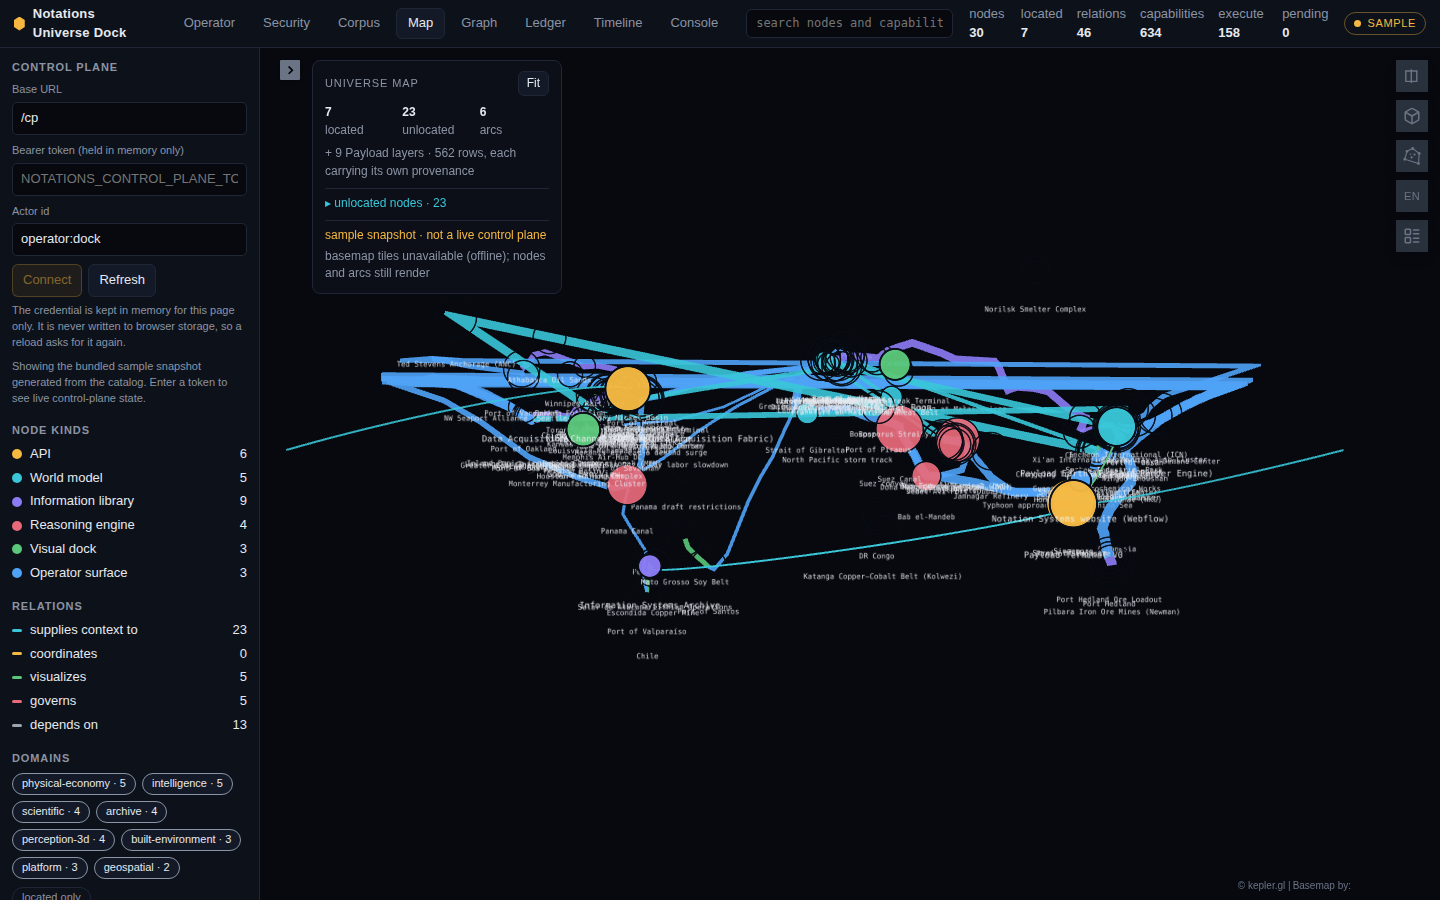
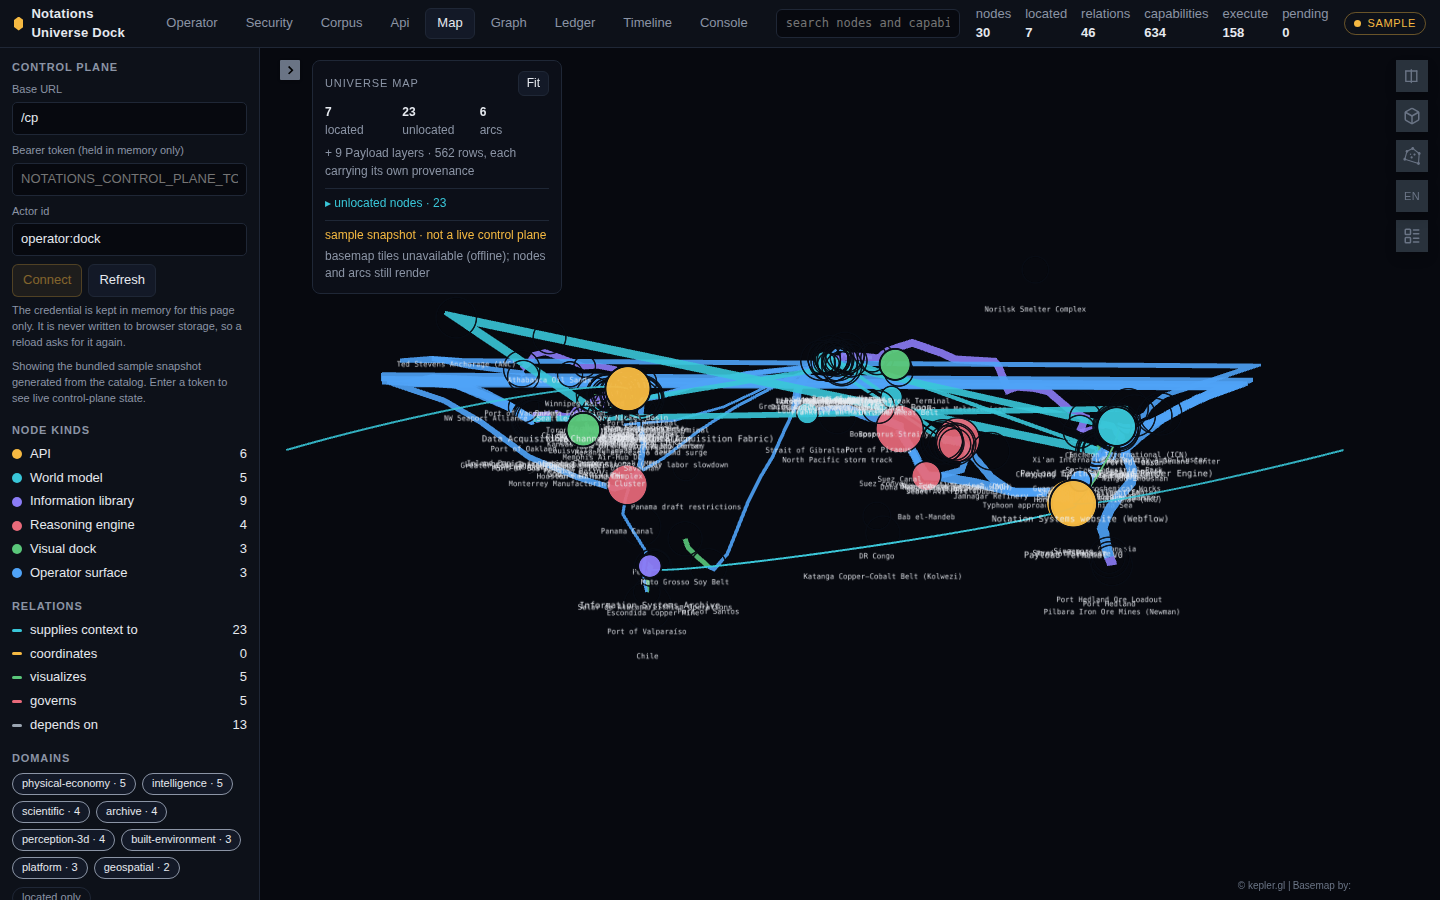
feat(dock): the four planes, and the number that must stay zero
The architecture was checkable and invisible. A ninth lens makes it something
an operator looks at: which systems are served on Tenant Read, Verification,
Governance and Operator; how many of each node's capabilities write; how many
are off every plane; and the count the four planes exist to keep at zero —
writes reachable on a plane anyone may call.

Computed from what actually crossed into the snapshot rather than asserted, so
the lens would show a violation rather than restate a claim. It shows 0.

The rail carries what API-000 produced, under the revision: `proof root ·
hash-linked, signed, anchored`. The chain kind and the signing state are
separate words because an unsigned chain is still hash-linked and still a root,
and reading "verified" across both is the conflation the field exists to
prevent.

`apiStanding()` in the model reads the four derived metadata fields; the
`Referenced` and `OperationalObservation` shapes are typed so a future reader
of a control-plane response has to say which kind it is handling.

control-plane 48/48, ecosystem 57/57, dock 50/50, 30 nodes / 634 capabilities,
0 errors; secret scan clean; all fifteen screenshots regenerated against a live
plane by one command.

Claude-Session: https://claude.ai/code/session_01LNYZbVwCbc7GqwstDUGQRa

Changed region(s): [[0.125, 0.0, 0.875, 0.0622], [0.0, 0.0, 0.0938, 0.0622]]

diff --git a/dock/src/lenses/ApiLens.tsx b/dock/src/lenses/ApiLens.tsx
@@ -1,0 +1,178 @@
+import { useMemo, useState } from 'react';
+import type { LensProps } from './types';
+import {
+  API_PLANE_BLURB,
+  API_PLANE_LABEL,
+  API_PLANE_ORDER,
+  API_PLANE_PUBLIC,
+  apiStanding,
+  type ApiPlane,
+  type SnapshotNode,
+} from '../model/types';
+
+/**
+ * The four planes, and which systems are served on each.
+ *
+ * The other lenses answer what a system holds and whether it can be trusted to hold it.
+ * This answers the third question — who may reach it, and in what shape — from
+ * [docs/API_PLANES.md](../../docs/API_PLANES.md): four roles, four planes, thirteen module
+ * families, and one invariant that every response either carries a proof root or says it
+ * is an observation.
+ *
+ * The number worth looking at is not the plane count. It is **writes on a public plane**,
+ * which must be zero: a capability whose role mutates reaches canonical state through
+ * governance or the operator plane or not at all. The catalog refuses the combination and
+ * `ecosystem/api.mjs` exits non-zero on it; this is where an operator sees that it held.
+ */
+const PLANE_COLOR: Record<ApiPlane, string> = {
+  tenant_read: '#58a6ff',
+  verification: '#3fb950',
+  governance: '#d29922',
+  internal_operator: '#bc8cff',
+};
+
+export function ApiLens({ filtered, selected, onSelect }: LensProps) {
+  const [plane, setPlane] = useState<ApiPlane | null>(null);
+
+  const placed = useMemo(
+    () =>
+      filtered.nodes
+        .map((node) => ({ node, api: apiStanding(node) }))
+        .filter((entry): entry is { node: SnapshotNode; api: NonNullable<ReturnType<typeof apiStanding>> } => entry.api !== null),
+    [filtered.nodes],
+  );
+
+  const onPlane = (id: ApiPlane) => placed.filter((entry) => entry.api.planes.includes(id));
+  const writes = placed.reduce((sum, entry) => sum + entry.api.writes, 0);
+  const operatorOnly = placed.reduce((sum, entry) => sum + entry.api.operatorOnly, 0);
+  const deviations = placed.filter((entry) => entry.api.deviations);
+  // The invariant, computed from what actually crossed rather than asserted: a node that
+  // writes and is served on a public plane would appear here.
+  const publicWriters = placed.filter((entry) => entry.api.writes && entry.api.planes.some((p) => API_PLANE_PUBLIC[p] && !entry.api.planes.some((q) => !API_PLANE_PUBLIC[q])));
+
+  const shown = plane ? onPlane(plane) : placed;
+
+  if (!placed.length) {
+    return (
+      <div className="lens scroll">
+        <p className="empty-note">
+          No node in this snapshot states where it sits in the API architecture. The planes are
+          derived from each capability's module family by <code>ecosystem/api.mjs</code> and seeded as
+          node metadata; a journal written before that existed carries none.
+        </p>
+      </div>
+    );
+  }
+
+  return (
+    <div className="lens scroll">
+      <div className="strip">
+        <div className="kpi">
+          <span>placed nodes</span>
+          <b>
+            {placed.length} / {filtered.nodes.length}
+          </b>
+        </div>
+        <div className="kpi">
+          <span>capabilities that write</span>
+          <b>{writes}</b>
+        </div>
+        <div className="kpi">
+          <span title="Actions a person triggers rather than endpoints anyone calls: key rotation, credential issue, site activation, runtime switches. An agent cannot reach one.">
+            on no plane
+          </span>
+          <b>{operatorOnly}</b>
+        </div>
+        <div className="kpi">
+          <span title="Writes the architecture would not serve, declared rather than hidden or forced into a family that fits.">declared deviations</span>
+          <b style={{ color: deviations.length ? '#d29922' : undefined }}>{deviations.reduce((sum, e) => sum + e.api.deviations, 0)}</b>
+        </div>
+        <div className="kpi">
+          <span title="A capability whose role mutates may not be served on a plane anyone may call. This is the rule the four planes exist for.">
+            public canonical CRUD
+          </span>
+          <b style={{ color: publicWriters.length ? '#f85149' : '#3fb950' }}>{publicWriters.length}</b>
+        </div>
+        <div style={{ marginLeft: 'auto', maxWidth: 460, textAlign: 'right', color: 'var(--muted)', fontSize: 11 }}>
+          Every response this plane returns carries a canonical reference and the proof root it was
+          read at, or says it is an operational observation and states what it does not cover.
+        </div>
+      </div>
+
+      <div className="corpus-roles">
+        <button type="button" className={`tab ${plane === null ? 'active' : ''}`} onClick={() => setPlane(null)}>
+          all planes ({placed.length})
+        </button>
+        {API_PLANE_ORDER.map((id) => {
+          const count = onPlane(id).length;
+          if (!count) return null;
+          return (
+            <button
+              key={id}
+              type="button"
+              className={`tab ${plane === id ? 'active' : ''}`}
+              onClick={() => setPlane(plane === id ? null : id)}
+              title={API_PLANE_BLURB[id]}
+              style={{ borderColor: plane === id ? PLANE_COLOR[id] : undefined }}
+            >
+              {API_PLANE_LABEL[id]} ({count}){API_PLANE_PUBLIC[id] ? '' : ' ·'}
+            </button>
+          );
+        })}
+      </div>
+
+      {plane && (
+        <p className="empty-note" style={{ marginTop: 10, marginBottom: 0 }}>
+          <b style={{ color: PLANE_COLOR[plane] }}>{API_PLANE_LABEL[plane]}</b>
+          {API_PLANE_PUBLIC[plane] ? ' · public' : ' · not public'} — {API_PLANE_BLURB[plane]}
+        </p>
+      )}
+
+      <div className="sec-grid" style={{ marginTop: 12 }}>
+        {shown.map(({ node, api }) => (
+          <button
+            key={node.nodeId}
+            type="button"
+            className={`sec-card ${selected === node.nodeId ? 'active' : ''}`}
+            style={{ borderLeftColor: api.planes.length ? PLANE_COLOR[api.planes[0]!] : 'var(--line)' }}
+            onClick={() => onSelect(selected === node.nodeId ? null : node.nodeId)}
+          >
+            <span className="sec-head">
+              <span className="sec-dot" style={{ background: api.planes.length ? PLANE_COLOR[api.planes[0]!] : 'var(--line)' }} />
+              {node.name}
+            </span>
+            <span className="sec-findings">
+              {api.planes.map((id) => (
+                <span key={id} className="badge" style={{ borderColor: PLANE_COLOR[id], color: PLANE_COLOR[id] }} title={API_PLANE_BLURB[id]}>
+                  {API_PLANE_LABEL[id]}
+                </span>
+              ))}
+              {!api.planes.length && <span className="sec-findings none">on no plane</span>}
+            </span>
+            <span className="sec-meta">
+              <span title="Capabilities whose role mutates. Each passes a governed gate; none is served where anyone may call it.">
+                {api.writes} write{api.writes === 1 ? '' : 's'}
+              </span>
+              {api.operatorOnly > 0 && (
+                <span title="Actions a person triggers, off every plane. No agent surface reaches one.">{api.operatorOnly} operator-only</span>
+              )}
+              {api.deviations > 0 && (
+                <span className="sec-count medium" title="A write the architecture would not serve, named rather than hidden. See the node's capabilities in the catalog for the sentence.">
+                  {api.deviations} deviation{api.deviations === 1 ? '' : 's'}
+                </span>
+              )}
+            </span>
+          </button>
+        ))}
+      </div>
+
+      <p className="empty-note" style={{ marginTop: 14 }}>
+        Four roles, four planes, thirteen module families — <code>docs/API_PLANES.md</code>. A
+        capability declares only which family it belongs to; its role, the planes it may be served
+        on and the shape its response must take all follow from that. The two planes marked
+        <b> not public</b> are where every write lives, because a read API that also writes is what
+        every canonical-CRUD leak starts as.
+      </p>
+    </div>
+  );
+}

diff --git a/dock/src/model/types.ts b/dock/src/model/types.ts
@@ -428,3 +428,59 @@ export const POSTURE_DIMENSION_ORDER: PostureDimension[] = [
   'identity', 'authorization', 'encryption_in_transit', 'encryption_at_rest', 'key_lifecycle',
   'dependency_risk', 'exposure', 'audit_integrity', 'backup', 'incident', 'control_plane_integrity',
 ];
+
+/** The four planes of docs/API_PLANES.md, in the order that document states them. */
+export type ApiPlane = 'tenant_read' | 'verification' | 'governance' | 'internal_operator';
+
+export const API_PLANE_ORDER: ApiPlane[] = ['tenant_read', 'verification', 'governance', 'internal_operator'];
+
+export const API_PLANE_LABEL: Record<ApiPlane, string> = {
+  tenant_read: 'Tenant Read',
+  verification: 'Verification',
+  governance: 'Governance',
+  internal_operator: 'Operator',
+};
+
+export const API_PLANE_BLURB: Record<ApiPlane, string> = {
+  tenant_read: 'Corpus, projection, search, releases, timelines, proof navigation. Tenant-bound, and returns references rather than unrestricted data.',
+  verification: 'Any supported VerificationEnvelope, closure, checks, Warrant Graph. Answers whether something verifies, and against what root.',
+  governance: 'Coverage, source-policy windows, retention, readiness, preflight, replay, challenges. A readiness answer is never an authorization.',
+  internal_operator: 'Signed federation packets and controlled operational actions. Never public canonical CRUD.',
+};
+
+/** Which two planes anyone may call. The rule "never public canonical CRUD" is about these. */
+export const API_PLANE_PUBLIC: Record<ApiPlane, boolean> = {
+  tenant_read: true,
+  verification: true,
+  governance: false,
+  internal_operator: false,
+};
+
+/**
+ * A node's place in the API architecture, from the metadata the seed derives.
+ *
+ * The per-capability family stays in the catalog: the plane is the fact an operator acts
+ * on, and "which systems can write at all?" should be answerable from a snapshot alone.
+ */
+export interface ApiStanding {
+  planes: ApiPlane[];
+  /** Capabilities whose role mutates. Every one passes a governed gate or it is a defect. */
+  writes: number;
+  /** On no plane: actions a person triggers — key rotation, activation, a runtime switch. */
+  operatorOnly: number;
+  /** Writes the architecture would not serve, declared rather than hidden. */
+  deviations: number;
+}
+
+export function apiStanding(node: SnapshotNode): ApiStanding | null {
+  const raw = node.metadata.api_planes;
+  const planes = typeof raw === 'string' && raw.trim() ? raw.trim().split(/\s+/) : [];
+  const number = (value: unknown): number => (typeof value === 'number' ? value : 0);
+  if (!planes.length && !number(node.metadata.api_operator_only)) return null;
+  return {
+    planes: planes.filter((p): p is ApiPlane => (API_PLANE_ORDER as string[]).includes(p)),
+    writes: number(node.metadata.api_writes),
+    operatorOnly: number(node.metadata.api_operator_only),
+    deviations: number(node.metadata.api_deviations),
+  };
+}

diff --git a/dock/src/App.tsx b/dock/src/App.tsx
@@ -2,6 +2,7 @@ import { useMemo, useState } from 'react';
 import { useControlPlane } from './api/useControlPlane';
 import { ConnectionPanel } from './components/ConnectionPanel';
 import { Inspector } from './components/Inspector';
+import { ApiLens } from './lenses/ApiLens';
 import { ConsoleLens } from './lenses/ConsoleLens';
 import { CorpusLens } from './lenses/CorpusLens';
 import { GraphLens } from './lenses/GraphLens';
@@ -14,9 +15,9 @@ import { applyFilters, type Filters } from './lenses/types';
 import { domainSummary, snapshotStats } from './model/graph';
 import { KIND_COLOR, KIND_LABEL, NODE_KINDS, RELATION_COLOR, RELATION_KINDS, RELATION_LABEL, type NodeKind, type RelationKind } from './model/types';
 
-type LensId = 'operator' | 'security' | 'corpus' | 'map' | 'graph' | 'ledger' | 'timeline' | 'console';
+type LensId = 'operator' | 'security' | 'corpus' | 'api' | 'map' | 'graph' | 'ledger' | 'timeline' | 'console';
 const LENSES: Array<{ id: LensId; label: string }> = [
-  { id: 'operator', label: 'Operator' }, { id: 'security', label: 'Security' }, { id: 'corpus', label: 'Corpus' }, { id: 'map', label: 'Map' }, { id: 'graph', label: 'Graph' }, { id: 'ledger', label: 'Ledger' }, { id: 'timeline', label: 'Timeline' }, { id: 'console', label: 'Console' },
+  { id: 'operator', label: 'Operator' }, { id: 'security', label: 'Security' }, { id: 'corpus', label: 'Corpus' }, { id: 'api', label: 'Api' }, { id: 'map', label: 'Map' }, { id: 'graph', label: 'Graph' }, { id: 'ledger', label: 'Ledger' }, { id: 'timeline', label: 'Timeline' }, { id: 'console', label: 'Console' },
 ];
 
 export interface ConsoleIntent { action: 'request_capability' | 'record_observation' | 'resolve_coordination'; nodeId?: string; capabilityId?: string; coordinationId?: string }
@@ -75,6 +76,7 @@ export function App() {
             case 'operator': return <OperatorLens {...props} onResolve={(coordinationId) => goConsole({ action: 'resolve_coordination', coordinationId })} onObserve={(nodeId) => goConsole({ action: 'record_observation', nodeId })} />;
             case 'security': return <SecurityLens {...props} />;
             case 'corpus': return <CorpusLens {...props} />;
+            case 'api': return <ApiLens {...props} />;
             case 'map': return <MapLens {...props} />;
             case 'graph': return <GraphLens {...props} />;
             case 'ledger': return <LedgerLens {...props} onResolve={(coordinationId) => goConsole({ action: 'resolve_coordination', coordinationId })} />;

diff --git a/dock/README.md b/dock/README.md
@@ -8,6 +8,7 @@ submits `POST /v1/commands` with the snapshot revision, and renders:
 | Operator | healthy · stale · needs approval · blocked, with the observed → proposed → approved → dispatched strip |
 | Security | the constellation: 11 posture dimensions, weakest-link state, coverage and severity counts, and every node that has not been attested |
 | Corpus | corpus standing across the estate: role, grade, coverage, the invariants each node declares it fails and the ones it has not assessed ([docs/CORPUS.md](../docs/CORPUS.md)), and beside them where each node sits under the estate's collection policy ([docs/COLLECTION_POLICY.md](../docs/COLLECTION_POLICY.md)) |
+| Api | the four planes of [docs/API_PLANES.md](../docs/API_PLANES.md): which systems are served on Tenant Read, Verification, Governance and Operator, how many of their capabilities write, how many are off every plane, and the count that must stay zero — writes reachable on a public plane |
 | Map | Kepler.gl: located nodes, relation arcs, and the nine Payload layers — 562 rows, each showing its own provenance and, where the rows carry it, when the value became knowable |
 | Graph | force-directed capability graph, ring = health, size = capabilities |
 | Ledger | every coordination record; approved ones read *approved · not dispatched* |
